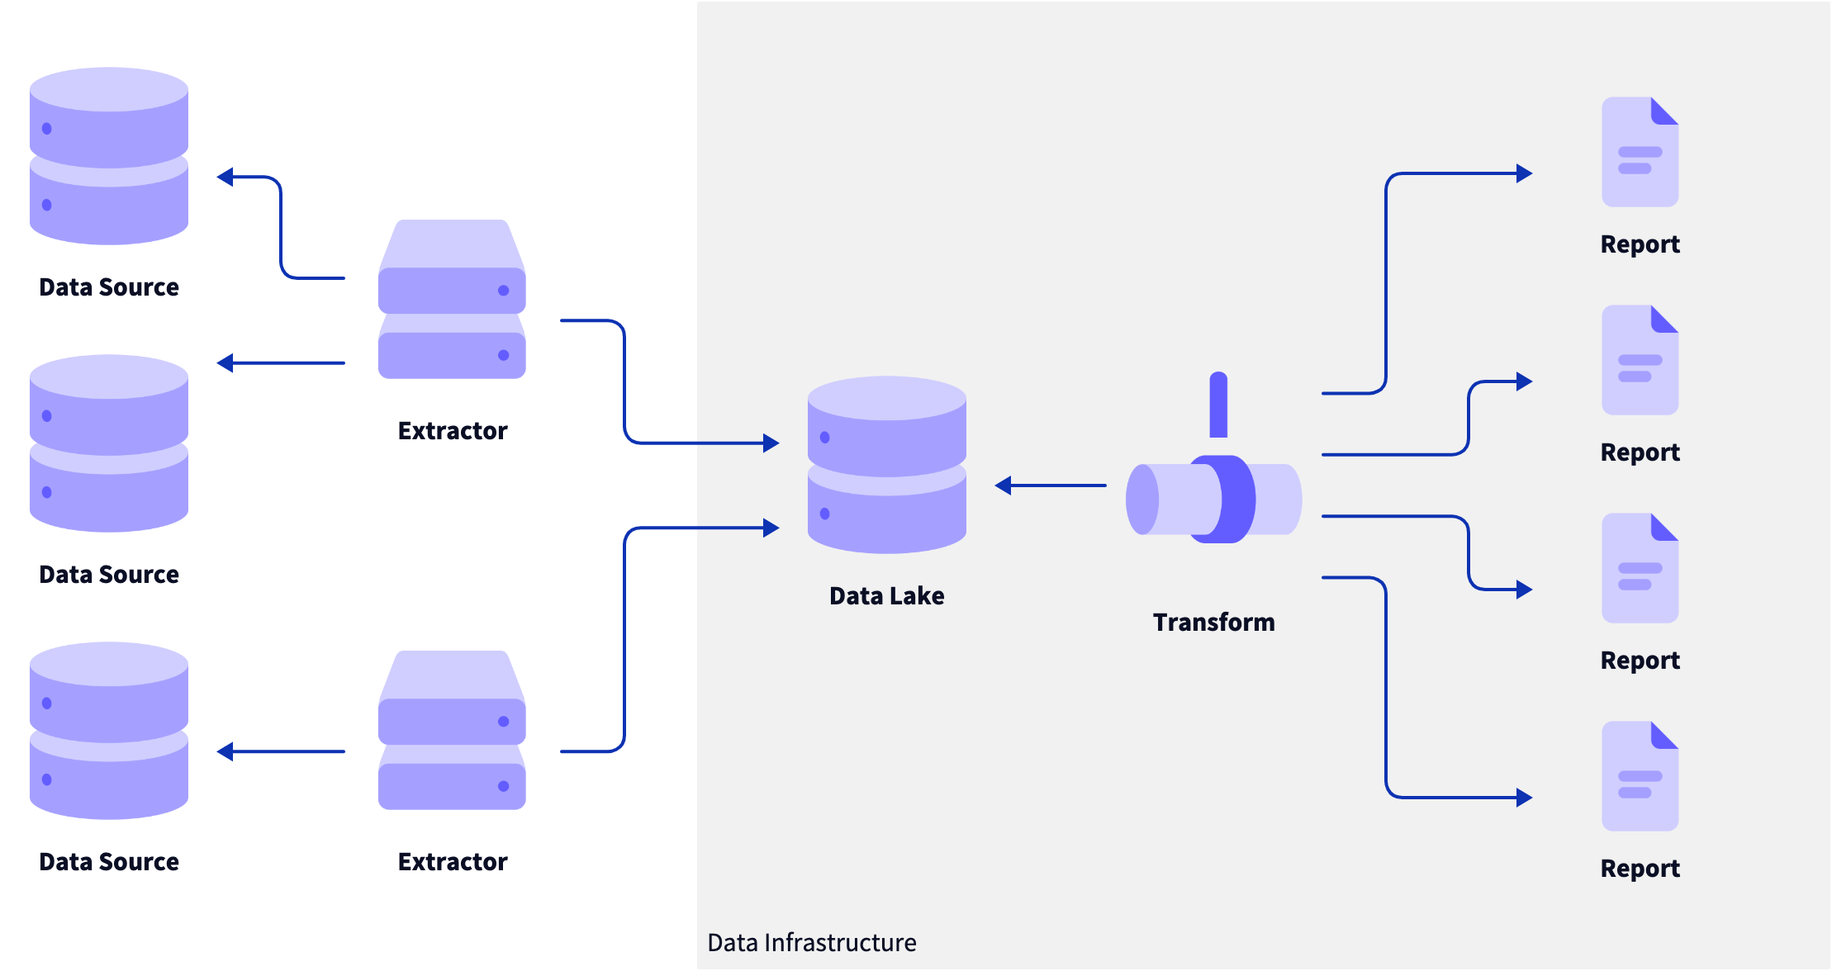
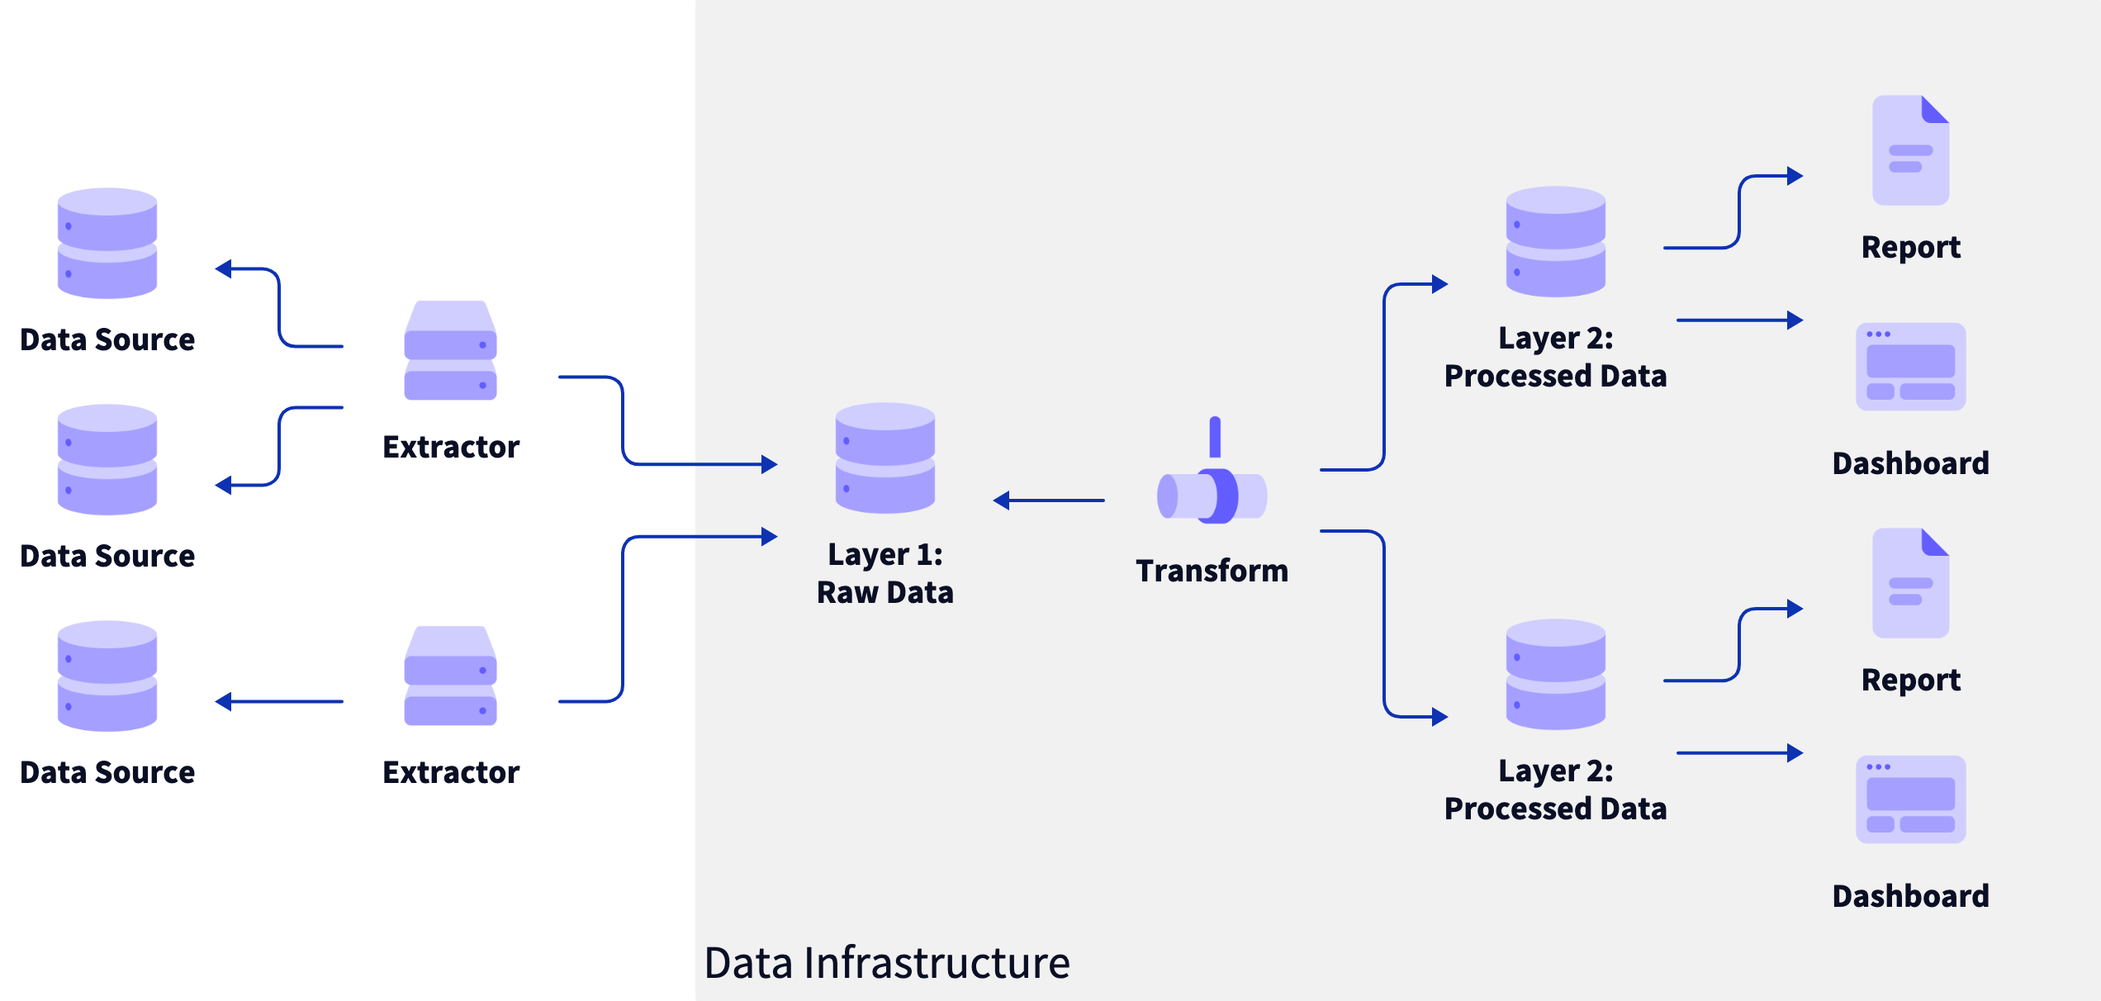
feat: feedback on PDPL post

diff --git a/input/symlinked/posts/2024/2024-07-25-personal-data-pipeline.md b/input/symlinked/posts/2024/2024-07-25-personal-data-pipeline.md
@@ -6,25 +6,27 @@ tags: ["Software Engineering", "Personal Data", "Obsidian", "Open Source"]
 hn_link: 
 ---
 
-I've been thinking a lot about personal data lately, the stuff that accrues as we live our lives in the presence of apps. About a year ago, [I wrote down my thoughts on my own personal data](/lifelogging/): where it collects, what shape it takes, how it could be used.
+I've been thinking a lot about personal data lately, the stuff that accrues as we live our lives in the presence of machines. About a year ago, [I wrote down my thoughts on my own personal data](/lifelogging/): where it collects, what shape it takes, how it could be used.
+
+> The amount of data exhaust that we're all generating is pretty staggering. I'm fairly cautious about what I sign up for but I'm still finding more and more sources of data I can export and use. It's a bit of a bind, to be honest; I love having this data available to me but I don't love allowing companies to collect it ... What I am truly cautious about, though, is how much time I spend recording and collecting and transforming ... There is a whole bunch of toil baked into this hobby and I'm wary of creating an endless source of digital chores for myself ... I want to make it easy to collect as much of my own raw data as possible, even if I don't know exactly what I want to do with it right now.
 
 Up until the end of last year, this curiosity was limited to me finding new sources of data, downloading them, and looking through these small windows into the past. What was the first thing I bought on Amazon (2004-12-7, *The Daily Show with Jon Stewart Presents America*, gift for a friend)? What was my longest bike ride recorded on Strava (2016-8-27, 118 miles from Seattle to Bellingham)? What was my first tweet (2008-3-27, "twit twit twit... nothing to say! :)")? It was fun and interesting and a nice distraction from what I was supposed to be doing on my laptop at the time, probably paying bills or reading another email from school.
 
 <img src="/_images/2016/08/coupeville-bike-stop.jpg" class="aligncenter" alt="Coupeville, WA">
 {% caption %}Quick coffee stop in Coupeville, WA on the way to Bellingham.{% endcaption %}
 
-Earlier this year, I started thinking more about just how much data I generate and what, if anything, this data could be used for in aggregate. The idea of being a "data-driven" human being, making decisions in the name of "optimization," is not appealing to me at all but there are a number of places where I would like to be able to combine data across services without allowing disparate companies to just vacuum it up wholesale:
+Earlier this year, I started thinking more about just how much data I generate and what, if anything, this data could be used for in aggregate. The idea of being a "data-driven" human being, making decisions in the name of "optimization," is not appealing to me at all but there are a number of places where I would like to be able to combine data across services without allowing disparate companies to just vacuum it up wholesale.
 
-- Combine notes in Obsidian ([note taking ](/notes/)app) with calendar entries and contacts to create a kind of personal CRM.
-- A holistic view on athletic performance across the various trackers that I use (Strava, Oura, Garmin, and Apple Health) combined with notes I keep.
-- A collection of data surrounding a date or event: texts sent, photos taken, financial transactions, and more to augment what I already remember and trigger memories I thought were lost.
-- Combine behavior (exercise, sleep and wake times, screen time, etc.) with mental state (anxiety, low mood, etc.) to find previously-unknown links between what I do and how I feel.
+- Could I combine daily notes in Obsidian ([note taking](/notes/)app) with calendar entries and contacts to create a kind of personal CRM?
+- Could I build a holistic view on athletic performance across the various trackers that I use (Strava, Oura, Garmin, and Apple Health) combined with notes I keep?
+- What about a collection of data surrounding a date or event: texts sent, photos taken, financial transactions, and more to augment what I already remember and trigger memories I thought were lost?
+- Is it possible to combine behavior (exercise, sleep and wake times, screen time, etc.) with mental state (anxiety, low mood, etc.) to find previously-unknown links between what I do and how I feel?
 
 All of the things above could be stand-alone products on their own, and probably already exist in one form or another if I looked hard enough. But there are three big things that would stand in the way of me using something on the list above:
 
 - Duplicating data from one another to another doubles the chance of that data leaking.
 - I have to rely on whatever app I choose to give me *exactly* what I need or else I'll be tempted to pull the data out and work with it myself.
-- If the app I'm using gets bought by a company I don't trust, shuts down, or just doesn't work for me anymore, I have no way of knowing that deleting my account deletes all the data that I let them have.
+- If the app I'm using gets bought by a company I don't trust, shuts down, or just doesn't work for me anymore, I have no way of knowing that deleting my account deletes all the data they already have stored.
 
 No matter how you cut it, trying to get all of your data into one service in order to pull insights out of it is problematic. Whether it's multiple apps working together or one single app that does everything, there is a fundamental problem with handing your personal data to a company and trusting them to both do the right thing and give you what you need, doubly so when you plug two apps together. For me, these issues prevent me from using a lot of different services that probably could be helpful. 
 
@@ -39,7 +41,7 @@ As I started to piece together this would work, it sounded more and more like th
 3. Once the raw data is in the central database, transformations can be run at whatever interval with results stored in tables that can be dropped and recreated during each run. These could be filters, combinations, calculations, or something else. 
 4. Analytics, reports, and other tools can now operate on transformed data, making it easier to reuse logic.
 
-Putting this all together looks, conceptually, something like this:
+Putting this all together looks, conceptually and oversimplified, something like this:
 
 {% d2 %}personal-data-pipeline-elt{% endd2 %}
 
@@ -74,17 +76,21 @@ Each of the components are described below, in terms of their job(s) to be done.
 
 - **Data Getter**: This service gets data from APIs and imports data from export files, both provided by the services themselves. It needs to be called frequently to pull in the latest data and be able to iterate through paginated endpoints to download all historic data. It needs to be cautious about rate limits, provide good reporting, and be able to recover from errors so it can run generally unattended. This component is open source so it can be audited by users for key management, API contracts, and data handling.
 - **Key Store**: This component stores the credentials needed to call APIs and can be either user-controlled or possibly as a part of the open-core business. The keys are provided for each API run, allowing for key rotation and separation of concerns.
-
-**`TODO: Raname JSON Store to Data Store?`**
-
 - **JSON Store**: This component receives plain JSON files from the **Data getter** and makes it available to the **Processor**. This could be the file system on the machine that is running the data getter or a cloud storage service like AWS S3, Google Drive, or similar. Like the **Key store**, this can be provided by the user or be provided as a part of a paid, open core service.
-- **Processor**: This service runs against the data in the **JSON store** but is decoupled from the data getting schedule; in other words, this service does not need any communication with or knowledge of the **Data getter**. The interface here could be anything - declarative JSON or YAML, "low-code" development environment, domain-specific language - and the output could be anything as well. The idea here is you have logic of some kind that transforms the source data into new data in whatever format or actions against the source API or other APIs. You could run this in the cloud if your input and output are all there as well or you could run it locally to save transformed data on your machine (as, say, [Obsidian](/tag/obsidian) notes).
+- **Processor**: This service runs against the data in the **JSON store** but is decoupled from the data getting schedule; in other words, this service does not need any communication with or knowledge of the **Data getter**. The interface here could be anything - declarative JSON or YAML, "low-code" development environment, domain-specific language - and the output could be anything as well. The idea here is you have logic of some kind that transforms the source data into new data in whatever format or actions against the source API or other APIs. You could run this in the cloud if your input and output are all there as well or you could run it locally to save transformed data on your machine (as, say, [Obsidian](/tag/obsidian) notes). 
 - **Reports**: Represents the idea of transformed data in the desired format.
 - **Recipes**: As you work with your data from the services that you use, you will begin to collect information on the format, structure, and content of that data. This information is in the shape of the transformations used by the **Processor** and can be published to a public repository of some kind that others can pull down and use as well. The idea here is that, instead of maintaining a massive universal schema of all the APIs in the world, there is a collection of transformations you can experiment with, modify, and republish, a bit like using and forking a Git repo. You can try recipes against your own data as a "dry run" and adopt them if everything works as expected.
 - **Relational Store**: This is partly calling out another output possibility for the **Processor** but it's also an important part of the paid, open core service. Transformed data could be pushed to a database owned by the user or provided by the paid, open core service. This could be configured with whatever access is necessary, providing a way for additional services to get access to your custom-filtered personal data.
-- **Web UI**: This would likely be a closed-source part of the paid service, providing an easy way to monitor the system, create recipes, and access transformed data. This would not change the functionality of the rest of the system, rather it would help bridge the technical gap and provide a simple interface for anyone unwilling or unable to create their own processing and reporting logic. 
+- **Web UI**: This would likely be a closed-source part of a paid add-on, providing an easy way to monitor the system, create recipes, and access transformed data. This would not change the functionality of the rest of the system, rather it would help bridge the technical gap and provide a simple interface for anyone unwilling or unable to create their own processing and reporting logic. 
 
 If it's not clear in the descriptions above, **a critical attribute of this system is that all the different parts can be self-hosted and maintained for free**. If you are critical of giving a 3rd party service access to your credentials and data (as I am), then you can spin all of this up on your own hardware and the whole thing should work as described. Everything here is designed to be both modular and extensible, making the system work for many levels of paranoia and technical ability.
+
+What might not be completely clear in the diagram above is where the different layers of data end up. Because this system is meant to be flexible and extensible, I don't think there needs to be system-level opinion of how that comes together. In a data pipeline for a software company, you need to be clear and deliberate about where and how sensitive data is stored. If you're just pulling down your own data and creating new connections and combinations, this is not as big of a problem. Your layers could be any of the following:
+
+- Pre-processing step to combine and filter raw data into new JSON files in the **JSON store** or **Relational store**
+- Descriptions of "models" like `Person` or `Location` that indicate data sources and linking
+- A separate instance of the **Processor** running specific recipes to create foundational data
+- No layers at all, just pipe raw data to your outputs
 
 ## In use
 
@@ -150,7 +156,7 @@ With the **Data Getter** running, what we'll have waiting for us is a collection
 
 We'll connect the event to the contact using the email address and output a line in the daily note for that date.
 
-{% info %}**Note**: I'm skipping over the details of the **Data Getter** because, in the end, that service is meant to "just work." In reality, nothing "just works" and you can read more about how this part comes together in the "Back to reality" section below.{% endinfo %}
+{% info %}**Note**: I'm skipping over the details of the **Data Getter** because, in the end, that service is meant to "just work."{% endinfo %}
 
 For those of you out there who can write code, this is not a terribly involved task. Parse the JSON, get all the email addresses, find them in the iCloud data, grab the names, find the daily note files, and print it all out. This is ... fine and much easier to do once you've got all the data you need sitting nearby. But the idea of these **Recipes** is to:
 
@@ -239,43 +245,31 @@ Walking through this step-by-step:
 
 One thing that came to mind while thinking through and discussing this with others is the idea of data "layers." The **Data Getter** is saving raw JSON parsed out into days but, after that, we just have what we have. But, for so many things that we want to do, we're going to be filtering, augmenting, connecting, and transforming this data into what we want. In many cases, the processing that's required for one output will be the same as others and duplicating transformations and links would be tedious. To help with that, we could define a  set of "pre-processing" recipes that builds new JSON files from our data sources, creating a new source that can be truncated and replaced for each run of the **Processor**. This would simplify the recipes and provide smaller datasets to work with.
 
-## Back to reality
-
-Depending on what you do for a living, you might be thinking one of two things:
-
-> Sounds like a lot of work but I'm glad you tackled it! Where do I sign up?
-
-... or ...
-
-> You appear to be boiling the ocean. How is that going for you?
-
-This is to say: there are some significant obstacles to overcome with this system, most of which I have yet to overcome. So, let's talk about where I'm at with this.  
-
-I started writing the **Data Getter** described above at the beginning of this year, [taking notes along the way](https://github.com/PersonalDataPipeline/data-getter/blob/main/docs/devlog.md). Fortunately for this project (and many other things), [I was laid off in February](/goodbye-auth0/), allowing me to focus on getting this component working. I have several API contracts written and data coming in regularly to my local machine running a cron job.
-
-The elephant in the room for the **Data Getter** is the challenge of maintaining API contracts for an every-expanding list of APIs. Without an army of engineers and testers, it would be impossible to maintain all of these contracts over time and I don't want to even try. This is a big reason for structuring this project around open source code. I tried to write this component in a way that avoids as much boilerplate as possible and keeps the contracts thin. But, in the end, if some esoteric social network changes their API, it's going to be up to the community to at least report the issue, if not actively help fix it. 
-
-Some of the other thorny problems are ....
-
-- Some services have a great API along with a way to export all of your data as well and connecting those two would make processing much easier. [ADR 015](https://github.com/PersonalDataPipeline/pdpl-cli/blob/main/docs/decisions/015-merging-import-with-api.md)
-- There isn't a way to handle multiple accounts, in the case where you have, say, a personal account and a professional account for Twitter or GitHub or whatever service. [ADR 013](https://github.com/PersonalDataPipeline/pdpl-cli/blob/main/docs/decisions/013-handling-multiple-accounts.md)
-- In that same vein, I want API contracts to be as easy to contribute as possible and they are definitely not there yet. I don't want to put a heavy testing onus on people contributing API contracts but I also don't want to try and write tests for all the different permutations of behavior for the component itself. [ADR 007](https://github.com/PersonalDataPipeline/pdpl-cli/blob/main/docs/decisions/007-api-modules.md)
-
-The **JSON Store** is just local-only at the moment. The idea would be to have modules in the **Data Getter** that provide connections to all the popular storage methods ([ADR 009](https://github.com/PersonalDataPipeline/pdpl-cli/blob/main/docs/decisions/009-storage-api-modules.md)). Right now, the file system operations for JSON storage and retrieval are all collected in a single file so there is a basic interface in place. Next step would be to write one for, say, S3 to see how that abstraction works in practice.
-
-I started this post intending to publish it once the **Data Getter** was functional, leaving the  **Recipes** and **Processor** components as conceptual. After talking with a few people and tinkering with a proof-of-concept, it became clear that the processing part is the true heart of this project and it should be mostly functional before I send it out into the world!
-
-The processor was written using an in-memory [DuckDB](https://duckdb.org) instance behind the scenes. The amazing thing about DuckDB is that you can throw a pile of JSON files at it and it will put them all in a relationship database with types. It was kind of like magic the first time I tried it, letting me write SQL-like queries against data that started as unstructured JSON. I was able to write the processing for [the recipe discussed above](https://github.com/PersonalDataPipeline/pdpl-cli/blob/main/recipes/personal-crm.yml) without too much trouble. 
-
-Like the **API Getter**'s API contract challenge, the big challenge here is representing all the different ways someone might want to work with their data in an abstracted form. There could be counts of array items, averages and sums of amounts, complicated joins between disparate services ... there are so many possibilities and the single pipeline of transformations connecting raw data with output might not be the right approach. Another big problem to solve is transforming data from one column type to another ([ADR 011](https://github.com/PersonalDataPipeline/pdpl-cli/blob/main/docs/decisions/011-type-transformations.md)).
-
 ## Are you interested?
 
 I want to give you a nod of appreciation for making it this far!
 
-Whether you are someone who has written something like this before or wishes that this kind of thing existed, I would love to hear from you. I don't have a Discord or newsletter or anything like that quite yet but, if this idea resonates with you in any way, I ask you to do one or more of the following:
+This post originally started as an explanation of a concept I wanted to explore but, as I worked on the proof of concept more, it felt like it should, and could, be working before it saw the light of day. So, over the last few months, I wrote the two main components, the **Data Getter** and the **Processor**. I added contracts for Google Calendar and iCloud Contacts importing and an output processor for Obsidian daily notes. Right now, PDPL is a more simplified version of the one described above:
 
-- Reach out via email, Twitter, [GitHub](https://github.com/PersonalDataPipeline/pdpl-cli/discussions), LinkedIn, or Hacker News and let me know what you think.
-- [Give this system a try](https://github.com/PersonalDataPipeline/pdpl-cli/blob/main/docs/getting-started.md) and let me know if you have any problems. I'd be happy to pair with you to get it working or write any API contracts that would help get you started!
+{% d2 %}personal-data-pipeline-v1{% endd2 %}
+
+There is a long way to go before PDPL can do everything I described above but you can try it out using the tutorial below. This runs through how to set up the **Data getter** and generate a CSV of the output.
+
+{% info %}
+👉 [**Getting started with PDPL**](https://github.com/PersonalDataPipeline/pdpl-cli/blob/main/docs/getting-started.md)
+{% endinfo %}
+
+Whether you are someone who has written something like this before or wishes that this kind of thing existed, I would love to hear from you:
+
+- Give this system a try and let me know if you have any problems. I'd be happy to pair with you to get it working or write any API contracts or output handers that would help get you started.
+- Reach out via [Discord](https://discord.com/channels/1265426186545135717/), Twitter/X, LinkedIn, or Hacker News and let me know what you think about the idea or the implementation or any questions you have about getting started.
+- If you have specific requests or feedback about specific components or technical choices, post an [issue](https://github.com/PersonalDataPipeline/pdpl-cli/issues/new/choose) on GitHub or contribute to one of the [discussions](https://github.com/PersonalDataPipeline/pdpl-cli/discussions) there.
 
 I'm specifically interested to hear feedback about the declarative processing, specific use cases, pitfalls from your experience, or "product" feedback from potential users, especially folks who would use something like this but do not have the ability (or desire) to build it themselves.
+
+{% h2br %}References{% endh2br %}
+
+- PDPL CLI on [GitHub](https://github.com/PersonalDataPipeline/pdpl-cli) and [npm]()
+- [A human programming interface (HPI)](https://beepb00p.xyz/hpi.html)
+- [A personal data search engine](https://thesephist.com/posts/monocle/)
+- [Building a memex](https://hyfen.net/memex/)
